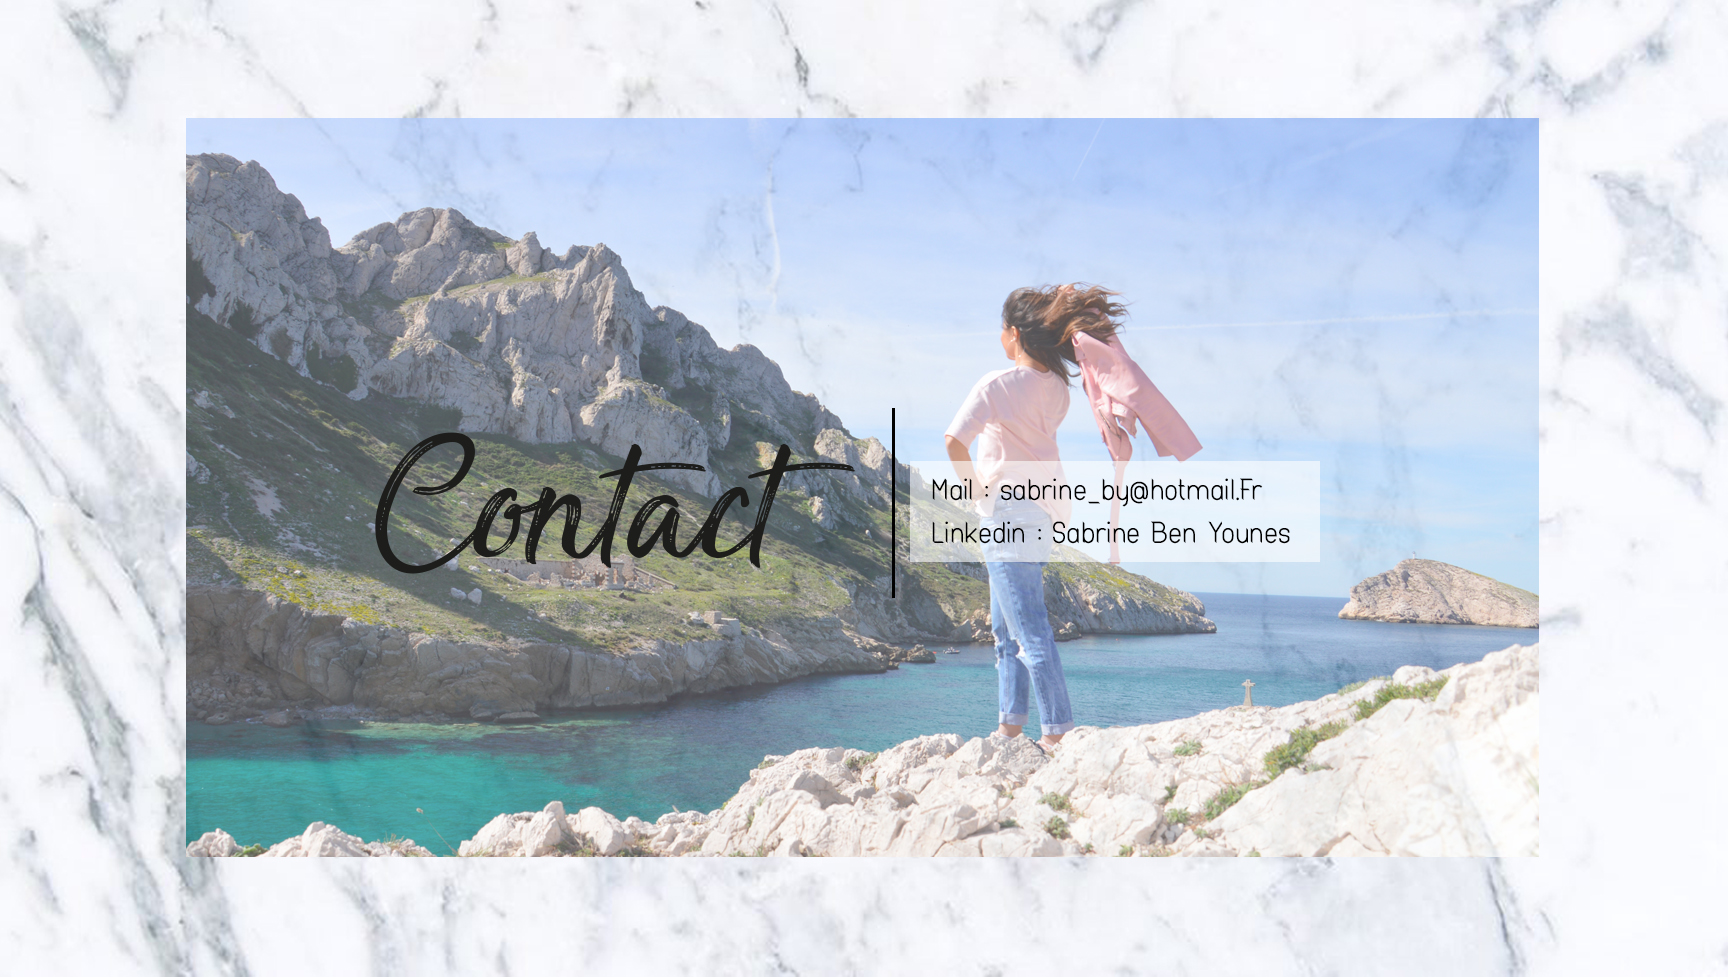
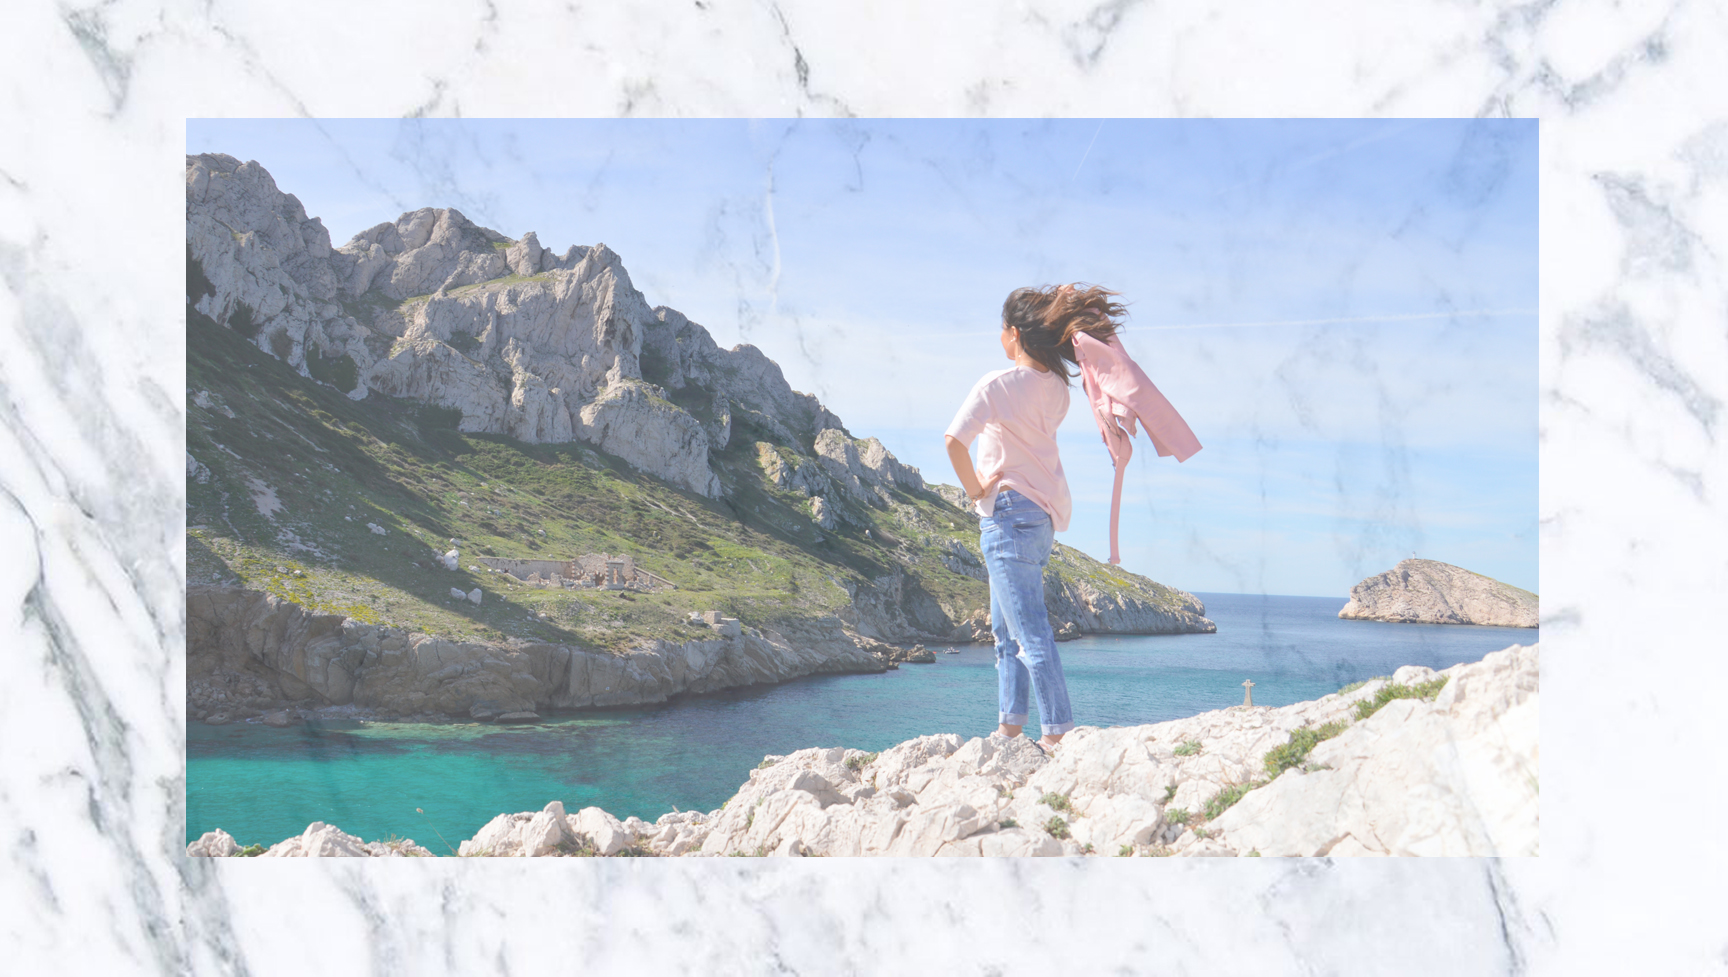
new site
commut

Changed region(s): [[0.2188, 0.4299, 0.7812, 0.5834]]

diff --git a/index.html b/index.html
@@ -256,8 +256,11 @@
             </div>
 			<div class="row">
                 <div class="col-lg-4 ">
+				<div class="container_test">
 				<a href='files/BOOK_16_17.pdf' target="_blank"><img src="img/book_1617.png" height="100%" width="80%"></a>
+				<div class="bottom-left"><span class='spanbook2017'>Book 2016 - 2017</span><br/><span class='visualiser'><a class='link_color' href='files/BOOK_16_17.pdf' target="_blank">Visualiser en ligne</a></span></div>
                 </div>
+				</div>
 				<div class="col-lg-4 ">
 				<a href='files/BOOK_20152016.pdf'><img src="img/book_1516.png" height="100%" width="80%"></a>
                 </div>
@@ -273,7 +276,7 @@
 
         <div class="container vcenter">
 		
-          <!--  <div class="row vcenter">
+           <div class="row vcenter">
                 <div class="col-lg-6">
                     <h1 class='contacttitre'>Contact</h1>
                 </div>
@@ -283,10 +286,10 @@
 				<div class="col-lg-4">
 				<div id="contactinfo">
                     <div id="contactbloc"></div>
-					<div id="contacttext">Mail : sabrine_by@hotmail.fr<br/>Linkedin : Sabrine Ben Younes</div>
+					<div id="contacttext">Mail : <a href="mailto:sabrine_by@hotmail.fr">sabrine_by@hotmail</a><br/>Linkedin : <a href="https://www.linkedin.com/in/sabrine-ben-younes-a87449137/" target="_blank">Sabrine Ben Younes</a></div>
                 </div>
 				</div>
-            </div>-->
+            </div>
         </div>
     </section>
 

diff --git a/css/bootstrap.css b/css/bootstrap.css
@@ -1084,7 +1084,7 @@ html {
 body {
   font-family: "fashionism", fashionism;
   font-size: 34px;
-  line-height: 1.42857143;
+  /*line-height: 1.42857143;*/
   color: #333;
   background-color: #fff;
 }
@@ -6915,6 +6915,7 @@ background: #FFF;
 	left: 0;
 	width: 100%;
 	height: 100%;
+	color:black;
 }
 
 @media screen and (max-width: 767px) {   
@@ -7020,5 +7021,32 @@ background: #FFF;
   height: 350px;
 }
 }
+
+/* Container holding the image and the text */
+.container_test {
+    position: relative;
+    text-align: center;
+    color: white;
+}
+
+/* Bottom left text */
+.bottom-left {
+	position: absolute;
+	bottom: 77px;
+	left: 273px;
+}
+
+.spanbook2017 {
+	font-size:25px;
+}
+.visualiser {
+	font-size:20px;
+}
+
+a.link_color{
+	color:white;
+}
+
+
 
 /*# Code Sabrine */
